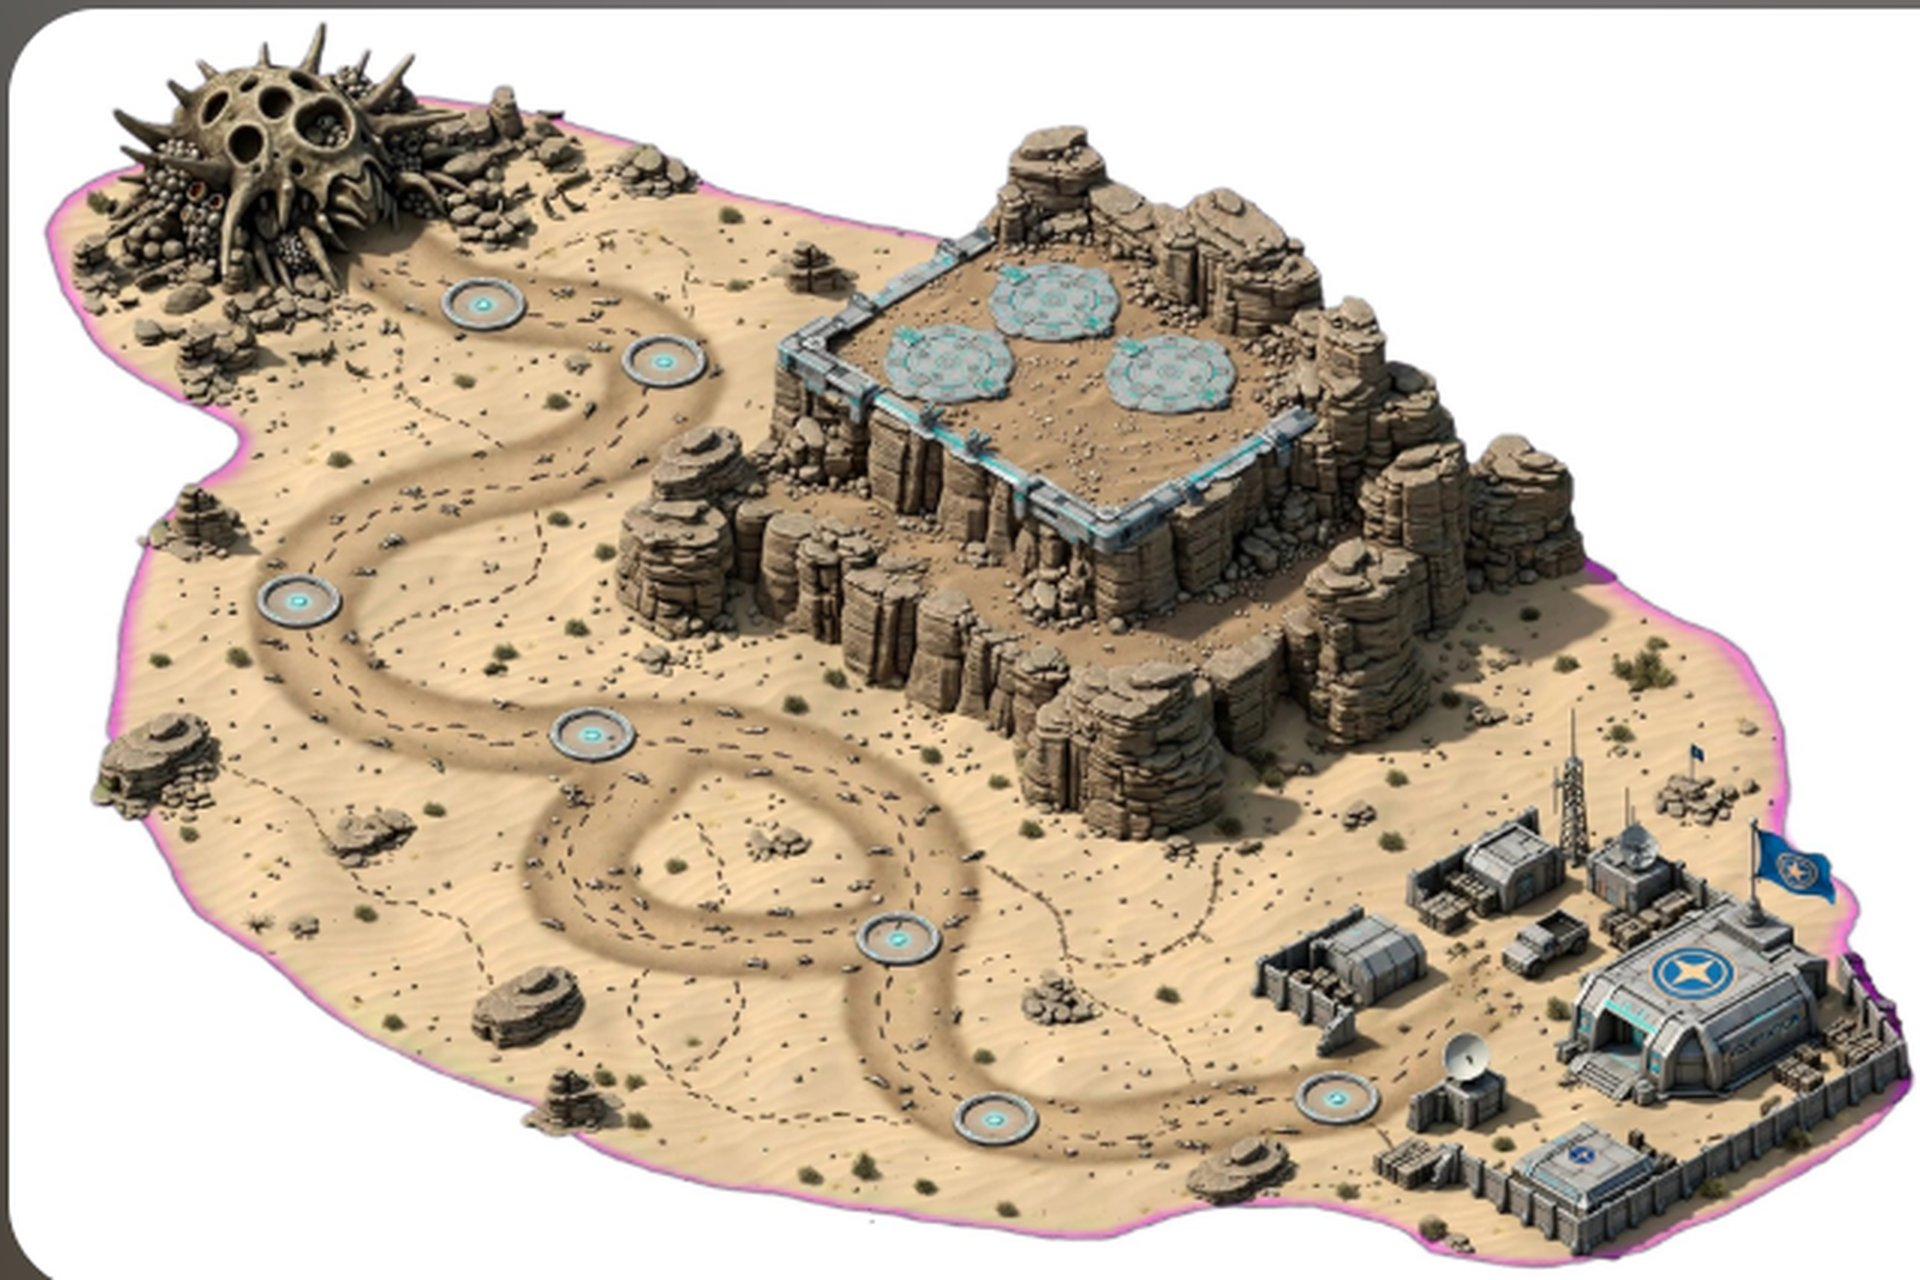
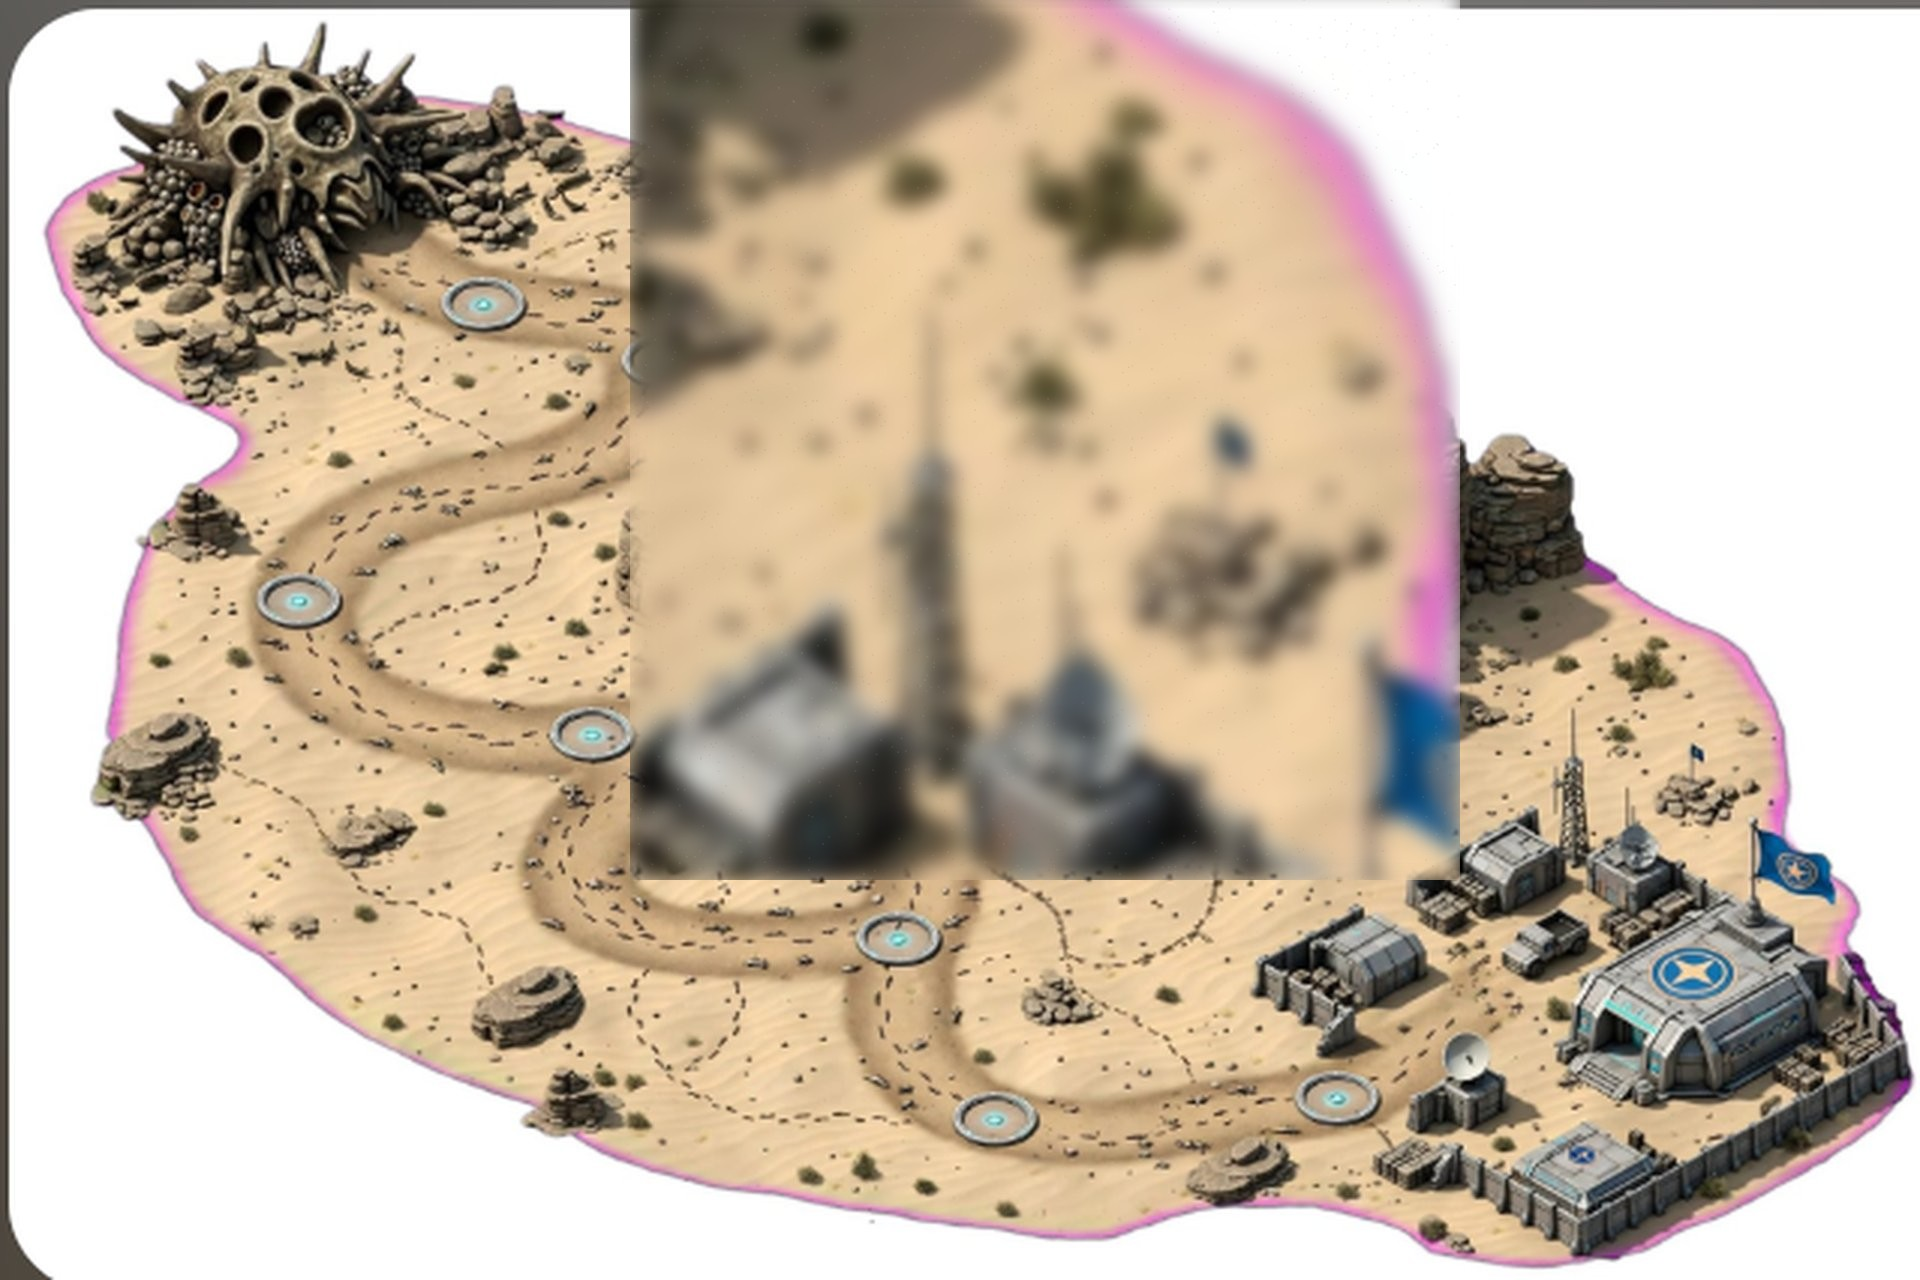
Shrink the mesa 50% as real 3D geometry, not an image edit
An attempt to shrink the mountain by editing the reference photo
directly (paste a scaled-down masked crop back over a tiled sand
fill) produced visible tiling seams and a noisy, spiky silhouette
from the rocky-pixel mask — not something worth shipping.

Instead: erase the mountain from assets/mapa_desejado.jpg (feathered
blur fill sampled from clean open sand, no mountain redrawn), and
rebuild it as real 3D geometry at 50% scale in iso.html (re-enabling
and resizing the two-tier box + boulder-scatter mesh that was
previously disabled in favor of the flat painted mountain). Port the
same mesa to topdown.html too, since it shares the same texture and
would otherwise show a bare erased patch with nothing there.

Regenerate both landing-page thumbnails to match.

Changed region(s): [[0.3125, 0.0, 0.7812, 0.6875]]

diff --git a/topdown.html b/topdown.html
@@ -1892,6 +1892,97 @@
   ground.receiveShadow=true;
   scene.add(ground);
 
+  // --- high-ground mesa: real 3D geometry, matching iso.html's mesa at the same spot/size (the reference
+  // photo's own mountain there was erased so this doesn't double up with a painted-in mountain) ---
+  var MESA_H=24;
+  var MESA_X0=9*TILE, MESA_X1=11*TILE, MESA_Z0=4*TILE, MESA_Z1=5*TILE;
+  var MESA_CENTER={x:480, z:216};
+  (function buildMesa(){
+    var w=MESA_X1-MESA_X0, dep=MESA_Z1-MESA_Z0;
+    var sc=document.createElement("canvas"); sc.width=64; sc.height=256;
+    var g=sc.getContext("2d");
+    [["#c9a06a",0,42],["#ab7f4a",42,84],["#8a6238",84,132],["#6d4a2a",132,182],["#4d331c",182,228],["#332210",228,256]].forEach(function(b){
+      g.fillStyle=b[0]; g.fillRect(0,b[1],64,b[2]-b[1]);
+    });
+    for(var i=0;i<180;i++){ g.fillStyle="rgba(0,0,0,"+(0.06+Math.random()*0.12).toFixed(2)+")"; g.fillRect(Math.random()*64,Math.random()*256,1+Math.random()*3,1+Math.random()*3); }
+    for(var j=0;j<9;j++){ var sx=Math.random()*64; g.strokeStyle="rgba(28,17,8,0.35)"; g.lineWidth=1; g.beginPath(); g.moveTo(sx,0); g.lineTo(sx+(Math.random()-0.5)*18,256); g.stroke(); }
+    var sideTex=new THREE.CanvasTexture(sc);
+    sideTex.wrapS=THREE.RepeatWrapping; sideTex.repeat.x=3;
+    if(THREE.sRGBEncoding) sideTex.encoding=THREE.sRGBEncoding;
+    var sideMat=new THREE.MeshStandardMaterial({map:sideTex, roughness:0.95});
+    var tc2=document.createElement("canvas"); tc2.width=256; tc2.height=256;
+    var tg=tc2.getContext("2d");
+    tg.fillStyle="#a9814f"; tg.fillRect(0,0,256,256);
+    for(var ti=0;ti<900;ti++){
+      tg.fillStyle=Math.random()<0.5 ? "rgba(200,168,120,"+(0.1+Math.random()*0.2).toFixed(2)+")" : "rgba(70,48,26,"+(0.08+Math.random()*0.16).toFixed(2)+")";
+      tg.fillRect(Math.random()*256,Math.random()*256,1.5,1.5);
+    }
+    for(var tp=0;tp<40;tp++){ tg.fillStyle="rgba(60,40,20,0.25)"; tg.beginPath(); tg.arc(Math.random()*256,Math.random()*256,1+Math.random()*2.5,0,Math.PI*2); tg.fill(); }
+    var topTex=new THREE.CanvasTexture(tc2);
+    if(THREE.sRGBEncoding) topTex.encoding=THREE.sRGBEncoding;
+    var topMat=new THREE.MeshStandardMaterial({map:topTex, roughness:0.96, color:0xb9895a});
+
+    var skirtScale=1.42, lowerH=MESA_H*0.44, upperH=MESA_H-lowerH;
+    var lowerW=w*skirtScale, lowerD=dep*skirtScale;
+    var skirtX0=MESA_CENTER.x-lowerW/2, skirtX1=MESA_CENTER.x+lowerW/2, skirtZ0=MESA_CENTER.z-lowerD/2, skirtZ1=MESA_CENTER.z+lowerD/2;
+    var lowerBody=new THREE.Mesh(new THREE.BoxGeometry(lowerW,lowerH,lowerD), sideMat);
+    lowerBody.position.set(MESA_CENTER.x, lowerH/2, MESA_CENTER.z);
+    lowerBody.castShadow=true; lowerBody.receiveShadow=true;
+    scene.add(lowerBody);
+    var upperBody=new THREE.Mesh(new THREE.BoxGeometry(w,upperH,dep), [sideMat,sideMat,topMat,sideMat,sideMat,sideMat]);
+    upperBody.position.set(MESA_CENTER.x, lowerH+upperH/2, MESA_CENTER.z);
+    upperBody.castShadow=true; upperBody.receiveShadow=true;
+    scene.add(upperBody);
+
+    var railMat=new THREE.MeshStandardMaterial({color:0xc7cdd6, metalness:0.5, roughness:0.4});
+    [[w,0,0,MESA_Z0],[w,0,0,MESA_Z1],[0,dep,MESA_X0,0],[0,dep,MESA_X1,0]].forEach(function(r){
+      var isXRun=r[0]>0;
+      var bar=new THREE.Mesh(new THREE.BoxGeometry(isXRun?w+1:0.8, 1.5, isXRun?0.8:dep+1), railMat);
+      bar.position.set(isXRun?MESA_CENTER.x:r[2], MESA_H+1, isXRun?r[3]:MESA_CENTER.z);
+      bar.castShadow=true;
+      scene.add(bar);
+    });
+
+    var boulderGeo=new THREE.IcosahedronGeometry(1,0);
+    var boulderMat=new THREE.MeshStandardMaterial({color:0x8a6a44, roughness:0.95});
+    function boulder(x,y,z,s){
+      var m=new THREE.Mesh(boulderGeo, boulderMat);
+      m.position.set(x,y,z);
+      m.scale.set(s*(0.8+Math.random()*0.5), s*(0.6+Math.random()*0.4), s*(0.8+Math.random()*0.5));
+      m.rotation.set(Math.random()*Math.PI,Math.random()*Math.PI,Math.random()*Math.PI);
+      m.castShadow=true; m.receiveShadow=true;
+      scene.add(m);
+    }
+    for(var b=0;b<16;b++){
+      var edge=Math.floor(Math.random()*4), tt=Math.random(), ex,ez;
+      if(edge===0){ ex=skirtX0+tt*lowerW; ez=skirtZ0; } else if(edge===1){ ex=skirtX1; ez=skirtZ0+tt*lowerD; }
+      else if(edge===2){ ex=skirtX0+tt*lowerW; ez=skirtZ1; } else { ex=skirtX0; ez=skirtZ0+tt*lowerD; }
+      var out2=(4+Math.random()*9)*0.5, ang2=Math.atan2(ez-MESA_CENTER.z, ex-MESA_CENTER.x);
+      boulder(ex+Math.cos(ang2)*out2, Math.random()*lowerH*0.7, ez+Math.sin(ang2)*out2, (4+Math.random()*6)*0.5);
+    }
+    for(var b2=0;b2<14;b2++){
+      var edgeU=Math.floor(Math.random()*4), ttU=Math.random(), exU,ezU;
+      if(edgeU===0){ exU=MESA_X0+ttU*w; ezU=MESA_Z0; } else if(edgeU===1){ exU=MESA_X1; ezU=MESA_Z0+ttU*dep; }
+      else if(edgeU===2){ exU=MESA_X0+ttU*w; ezU=MESA_Z1; } else { exU=MESA_X0; ezU=MESA_Z0+ttU*dep; }
+      var outU=(4+Math.random()*9)*0.5, angU=Math.atan2(ezU-MESA_CENTER.z, exU-MESA_CENTER.x);
+      boulder(exU+Math.cos(angU)*outU, lowerH+Math.random()*upperH*0.6, ezU+Math.sin(angU)*outU, (4+Math.random()*5.5)*0.5);
+    }
+    [[MESA_X0-1.5,MESA_Z0-1.5],[MESA_X1+1.5,MESA_Z0-1.5],[MESA_X0-1.5,MESA_Z1+1.5],[MESA_X1+1.5,MESA_Z1+1.5]].forEach(function(p){
+      boulder(p[0],MESA_H-2,p[1],(7+Math.random()*5)*0.5);
+    });
+
+    var stepMat=new THREE.MeshStandardMaterial({color:0x7a5c3a, roughness:0.9});
+    var steps=6, stepH=MESA_H/steps, stepD=3.5, stepW=w*0.4;
+    for(var s2=0;s2<steps;s2++){
+      var st=new THREE.Mesh(new THREE.BoxGeometry(stepW,stepH,stepD), stepMat);
+      st.position.set(MESA_CENTER.x, stepH*(s2+0.5), skirtZ1+stepD*0.5+(steps-1-s2)*stepD*0.6);
+      st.castShadow=true; st.receiveShadow=true;
+      scene.add(st);
+    }
+
+    for(var c2=9;c2<=10;c2++){ buildable[4][c2]=false; }
+  })();
+
   function buildBaseMesh(){
     var group=new THREE.Group();
     var wallMat=new THREE.MeshStandardMaterial({color:0x2a2b1e, roughness:0.8});

diff --git a/iso.html b/iso.html
@@ -2137,7 +2137,7 @@
 
   // ---------------- terrain: Klendathu desert sand + bug trail, painted once into a texture ----------------
   var TERRAIN_SCALE=2;
-  var NEST_CENTER={x:48, z:48}, CRATER_CENTER={x:200, z:400}, MESA_CENTER={x:480, z:192};
+  var NEST_CENTER={x:48, z:48}, CRATER_CENTER={x:200, z:400}, MESA_CENTER={x:480, z:216};
   // clutter stays out of the spots taken by the base and the terrain dioramas
   var TERRAIN_KEEPOUT=[
     {x:BASE_TILE[0]*TILE+TILE/2, z:BASE_TILE[1]*TILE+TILE/2, r:100},
@@ -2842,16 +2842,14 @@
   var craterFireT=[], craterSmokeT=[];
   markUnbuildable(0,2,10,12);
 
-  // --- high-ground mesa: plataformas alinhadas à montanha da imagem de referência ---
-  var HIGH_TILES={"9,3":1,"10,3":1,"11,3":1,"9,4":1,"10,4":1,"11,4":1};
+  // --- high-ground mesa: real 3D geometry, 50% the size of the earlier version, replacing the flat
+  // mountain that used to be painted into the reference photo (erased from assets/mapa_desejado.jpg) ---
+  var HIGH_TILES={"9,4":1,"10,4":1};
   var HIGH_GROUND_RANGE=1.2;
-  var MESA_H=48;
-  var MESA_X0=9*TILE, MESA_X1=12*TILE, MESA_Z0=3*TILE, MESA_Z1=5*TILE;
+  var MESA_H=24;
+  var MESA_X0=9*TILE, MESA_X1=11*TILE, MESA_Z0=4*TILE, MESA_Z1=5*TILE;
   var mesaPads=[];
   (function buildMesa(){
-    // Mesa 3D desativada: o visual da montanha vem da textura artística do mapa.
-    // Mantemos HIGH_TILES + MESA_H para gameplay (bônus de alcance e altura das torres).
-    return;
     var w=MESA_X1-MESA_X0, dep=MESA_Z1-MESA_Z0;
     var sc=document.createElement("canvas"); sc.width=64; sc.height=256;
     var g=sc.getContext("2d");
@@ -2893,8 +2891,8 @@
     var railMat=smat(0xc7cdd6,{metalness:0.5, roughness:0.4});
     [[w,0,0,MESA_Z0],[w,0,0,MESA_Z1],[0,dep,MESA_X0,0],[0,dep,MESA_X1,0]].forEach(function(r){
       var isXRun=r[0]>0;
-      var bar=new THREE.Mesh(gBox(isXRun?w+2:1.6, 3, isXRun?1.6:dep+2), railMat);
-      bar.position.set(isXRun?MESA_CENTER.x:r[2], MESA_H+2, isXRun?r[3]:MESA_CENTER.z);
+      var bar=new THREE.Mesh(gBox(isXRun?w+1:0.8, 1.5, isXRun?0.8:dep+1), railMat);
+      bar.position.set(isXRun?MESA_CENTER.x:r[2], MESA_H+1, isXRun?r[3]:MESA_CENTER.z);
       bar.castShadow=true;
       scene.add(bar);
     });
@@ -2913,24 +2911,24 @@
       var edge=Math.floor(Math.random()*4), tt=Math.random(), ex,ez;
       if(edge===0){ ex=skirtX0+tt*lowerW; ez=skirtZ0; } else if(edge===1){ ex=skirtX1; ez=skirtZ0+tt*lowerD; }
       else if(edge===2){ ex=skirtX0+tt*lowerW; ez=skirtZ1; } else { ex=skirtX0; ez=skirtZ0+tt*lowerD; }
-      var out2=4+Math.random()*9, ang2=Math.atan2(ez-MESA_CENTER.z, ex-MESA_CENTER.x);
-      boulder(ex+Math.cos(ang2)*out2, Math.random()*lowerH*0.7, ez+Math.sin(ang2)*out2, 4+Math.random()*6);
+      var out2=(4+Math.random()*9)*0.5, ang2=Math.atan2(ez-MESA_CENTER.z, ex-MESA_CENTER.x);
+      boulder(ex+Math.cos(ang2)*out2, Math.random()*lowerH*0.7, ez+Math.sin(ang2)*out2, (4+Math.random()*6)*0.5);
     }
     // terrace-level boulders (narrower, upper tier)
     for(var b2=0;b2<14;b2++){
       var edgeU=Math.floor(Math.random()*4), ttU=Math.random(), exU,ezU;
       if(edgeU===0){ exU=MESA_X0+ttU*w; ezU=MESA_Z0; } else if(edgeU===1){ exU=MESA_X1; ezU=MESA_Z0+ttU*dep; }
       else if(edgeU===2){ exU=MESA_X0+ttU*w; ezU=MESA_Z1; } else { exU=MESA_X0; ezU=MESA_Z0+ttU*dep; }
-      var outU=4+Math.random()*9, angU=Math.atan2(ezU-MESA_CENTER.z, exU-MESA_CENTER.x);
-      boulder(exU+Math.cos(angU)*outU, lowerH+Math.random()*upperH*0.6, ezU+Math.sin(angU)*outU, 4+Math.random()*5.5);
+      var outU=(4+Math.random()*9)*0.5, angU=Math.atan2(ezU-MESA_CENTER.z, exU-MESA_CENTER.x);
+      boulder(exU+Math.cos(angU)*outU, lowerH+Math.random()*upperH*0.6, ezU+Math.sin(angU)*outU, (4+Math.random()*5.5)*0.5);
     }
-    [[MESA_X0-3,MESA_Z0-3],[MESA_X1+3,MESA_Z0-3],[MESA_X0-3,MESA_Z1+3],[MESA_X1+3,MESA_Z1+3]].forEach(function(p){
-      boulder(p[0],MESA_H-4,p[1],7+Math.random()*5);
+    [[MESA_X0-1.5,MESA_Z0-1.5],[MESA_X1+1.5,MESA_Z0-1.5],[MESA_X0-1.5,MESA_Z1+1.5],[MESA_X1+1.5,MESA_Z1+1.5]].forEach(function(p){
+      boulder(p[0],MESA_H-2,p[1],(7+Math.random()*5)*0.5);
     });
 
     // stepped stairway on the south face, toward the path, so the plateau reads as connected to the ground
     var stepMat=smat(0x7a5c3a,{roughness:0.9});
-    var steps=6, stepH=MESA_H/steps, stepD=7, stepW=w*0.4;
+    var steps=6, stepH=MESA_H/steps, stepD=3.5, stepW=w*0.4;
     for(var s2=0;s2<steps;s2++){
       var st=new THREE.Mesh(gBox(stepW,stepH,stepD), stepMat);
       st.position.set(MESA_CENTER.x, stepH*(s2+0.5), skirtZ1+stepD*0.5+(steps-1-s2)*stepD*0.6);
@@ -2938,13 +2936,13 @@
       scene.add(st);
     }
 
-    [[-24,-22],[2,18],[26,-14]].forEach(function(p,i){
-      var s=glowSprite(0x58e6ff,15);
-      s.position.set(MESA_CENTER.x+p[0], MESA_H+2, MESA_CENTER.z+p[1]);
+    [[-12,-11],[1,9],[13,-7]].forEach(function(p,i){
+      var s=glowSprite(0x58e6ff,7.5);
+      s.position.set(MESA_CENTER.x+p[0], MESA_H+1, MESA_CENTER.z+p[1]);
       mesaPads.push({sprite:s, phase:i*1.3});
     });
   })();
-  markUnbuildable(8,12,2,5,HIGH_TILES);
+  markUnbuildable(8,11,3,5,HIGH_TILES);
   function isHighTile(c,r){ return !!HIGH_TILES[c+","+r]; }
   function tileHeight(c,r){ return isHighTile(c,r) ? MESA_H : 0; }
 
